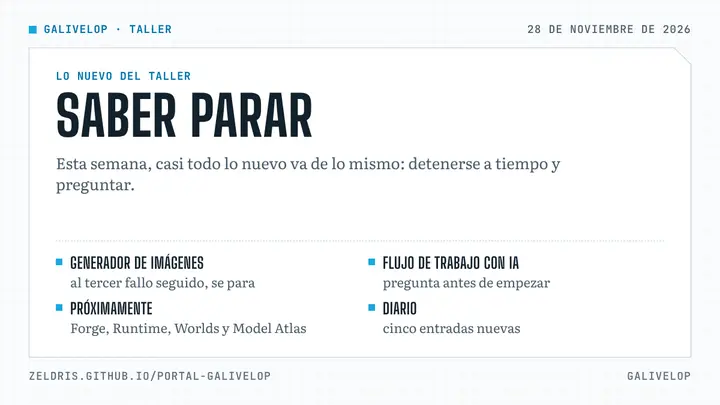
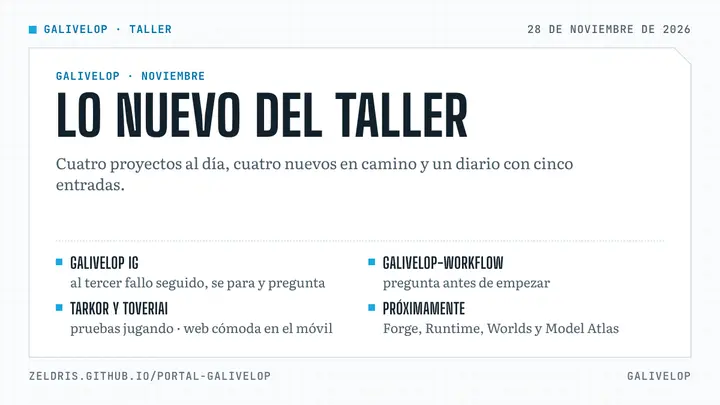
docs(media): LinkedIn «Lo nuevo del taller», proyecto a proyecto con enlaces
Reescribe la pieza con el formato de LinkedIn y la voz del diario: tutea,
explica en llano qué es cada proyecto y qué cambia, con su ficha y su código
(toVeriAI solo su web), los cuatro de próximamente, el diario y una pregunta
final. La tarjeta pasa a «Lo nuevo del taller». check.py: OK.

Siguiente: la persona publica en LinkedIn y se rellena «Published» en sheet.md.

Claude-Session: https://claude.ai/code/session_01VdeHmBJafvNfuX8KrP6JHM

diff --git a/docs/media/2026-11-28/01-saber-parar/media/source/card.html b/docs/media/2026-11-28/01-saber-parar/media/source/card.html
@@ -3,7 +3,7 @@
 <head>
 <meta charset="utf-8">
 <meta name="gw-size" content="1200x675">
-<title>Saber parar</title>
+<title>Lo nuevo del taller</title>
 <style>
   @font-face { font-family: 'Big Shoulders Display Variable'; font-weight: 100 900; src: url('../../../../../../node_modules/@fontsource-variable/big-shoulders-display/files/big-shoulders-display-latin-wght-normal.woff2') format('woff2'); }
   @font-face { font-family: 'Literata Variable'; font-weight: 200 900; src: url('../../../../../../node_modules/@fontsource-variable/literata/files/literata-latin-wght-normal.woff2') format('woff2'); }
@@ -57,10 +57,10 @@
 <body>
   <div class="barra datos"><span class="marca">Galivelop · Taller</span><span>28 de noviembre de 2026</span></div>
   <div class="marco"><div class="ficha resumen">
-    <div class="sub datos">Lo nuevo del taller</div>
-    <h1>Saber parar</h1>
-    <p>Esta semana, casi todo lo nuevo va de lo mismo: detenerse a tiempo y preguntar.</p>
-    <div class="lista"><div><b>Generador de imágenes</b><br>al tercer fallo seguido, se para</div><div><b>Flujo de trabajo con IA</b><br>pregunta antes de empezar</div><div><b>Próximamente</b><br>Forge, Runtime, Worlds y Model Atlas</div><div><b>Diario</b><br>cinco entradas nuevas</div></div>
+    <div class="sub datos">Galivelop · noviembre</div>
+    <h1>Lo nuevo del taller</h1>
+    <p>Cuatro proyectos al día, cuatro nuevos en camino y un diario con cinco entradas.</p>
+    <div class="lista"><div><b>Galivelop IG</b><br>al tercer fallo seguido, se para y pregunta</div><div><b>Galivelop-workflow</b><br>pregunta antes de empezar</div><div><b>Tarkor y toVeriAI</b><br>pruebas jugando · web cómoda en el móvil</div><div><b>Próximamente</b><br>Forge, Runtime, Worlds y Model Atlas</div></div>
   </div></div>
   <div class="pie datos"><span>zeldris.github.io/Portal-Galivelop</span><span>Galivelop</span></div>
 </body>

diff --git a/docs/media/2026-11-28/01-saber-parar/sheet.md b/docs/media/2026-11-28/01-saber-parar/sheet.md
@@ -11,7 +11,7 @@ Languages: es
 
 ## What is told
 
-- **In one sentence (for who uses it):** Lo nuevo del taller esta semana va de saber parar: el generador de imágenes se detiene al tercer fallo seguido, el flujo de trabajo pregunta antes de empezar, Tarkor se prueba jugando; además, cuatro proyectos en «próximamente» y un diario renovado.
+- **In one sentence (for who uses it):** Repaso de lo nuevo del taller, proyecto a proyecto, con la ficha y el código de cada uno: Galivelop IG, Galivelop-workflow, Tarkor y toVeriAI al día, cuatro proyectos en «próximamente» y cinco entradas en el diario.
 - **In one sentence (technical):** Resumen en tono de diario de las novedades publicadas en `main` entre el 2026-11-16 y el 2026-11-27 (image-generator 0.7/0.8, workflow 0.8.2-0.9.1, Tarkor, toVeriAI, próximamente y diario).
 - **Status:** todo publicado en `main` (último, el diario nuevo, 8bf49fe del 2026-11-27).
 
@@ -26,18 +26,25 @@ Languages: es
 | En «próximamente» entran Forge, Runtime, Worlds y Model Atlas | `docs/handoff.md` («Hecho», 2026-11-27: `galivelop-forge`, `-runtime`, `-worlds` y `galivelop-models` en próximamente); `src/data/proximamente.json` |
 | Forge: datos y ajuste fino para los modelos locales; Runtime: cola y turnos compartidos por los generadores locales; Worlds: kit para mundos de ficción con IA local; Model Atlas: qué modelo cabe en qué máquina | `src/data/proximamente.json` (`lema` de cada uno) |
 | El diario del taller se renueva con cinco entradas, entre ellas por qué una Steam Deck es la máquina de referencia y un relato del Génesis de Tarkor | `src/data/diario/` (cinco archivos); `una-consola-como-vara-de-medir.json`, `la-ultima-semilla.json`; commit 8bf49fe |
+| Galivelop IG genera imágenes en el propio equipo sin mandar nada fuera, y agrupa pedidos en tandas | `src/data/proyectos/galivelop-image-generator.json` (`resumen`: «Nada sale del equipo»; novedades 0.7.0/0.8.0, 2026-11-27) |
+| Galivelop-workflow es nuestra forma de trabajar con IA empaquetada para cualquier proyecto; pregunta antes de empezar (0.8.0); la 0.9 trae idiomas configurables y revisión repartida entre varios revisores; se instala para opencode y Codex | `src/data/proyectos/galivelop-workflow.json` (`lema` y novedades 0.8.0, 0.9.0) |
+| Tarkor es un juego de rol por texto con IA local como directora de juego; en la ronda de pruebas los personajes responden sin desvelar secretos y el combate entiende mejor las esquivas | `src/data/proyectos/tarkor.json` (`resumen`; novedades 2026-11-20 y 2026-11-26) |
+| toVeriAI dice cuánto puedes fiarte de una noticia y por qué | `src/data/proyectos/toveriai.json` (`lema`, `resumen`) |
+| Una entrada del diario explica por qué medimos con una consola (Steam Deck) | `src/data/diario/una-consola-como-vara-de-medir.json` |
+| Enlaces de fichas: `/proyectos/<slug>` del sitio https://zeldris.github.io/Portal-Galivelop/ | `src/App.tsx`:68 |
+| Código público: github.com/Zeldris/galivelop-image-generator, /Galivelop-workflow, /World-Maker-Fantasy, /Instalador-WMF-Tarkor; toVeriAI solo su web, www.toveriai.com (repo privado) | `enlaces` de cada ficha en `src/data/proyectos/` |
 | El diario está en https://zeldris.github.io/Portal-Galivelop/diario | `src/App.tsx`:75; `scripts/paginas-estaticas.mjs`:169 |
 
 ## Images
 
 | Image | Alt text | Channels |
 |---|---|---|
-| `media/card.png` | es: Tarjeta «Saber parar» de Galivelop: el generador de imágenes se para al tercer fallo seguido, el flujo con IA pregunta antes de empezar, cuatro proyectos en próximamente y cinco entradas nuevas en el diario | linkedin |
-| `media/card.webp` | es: Tarjeta «Saber parar» de Galivelop: el generador de imágenes se para al tercer fallo seguido, el flujo con IA pregunta antes de empezar, cuatro proyectos en próximamente y cinco entradas nuevas en el diario | ninguno (la genera el render; sirve para X o Discord) |
+| `media/card.png` | es: Tarjeta «Lo nuevo del taller» de Galivelop: Galivelop IG se para al tercer fallo seguido, Galivelop-workflow pregunta antes de empezar, Tarkor en pruebas jugando, toVeriAI cómoda en el móvil y cuatro proyectos en próximamente | linkedin |
+| `media/card.webp` | es: Tarjeta «Lo nuevo del taller» de Galivelop: Galivelop IG se para al tercer fallo seguido, Galivelop-workflow pregunta antes de empezar, Tarkor en pruebas jugando, toVeriAI cómoda en el móvil y cuatro proyectos en próximamente | ninguno (la genera el render; sirve para X o Discord) |
 
 ## Internal use
 
-- Pedido de la persona (2026-11-28): publicación de LinkedIn de los proyectos nuevos y actualizados, «con el tono del diario, no lo que está escrito pero sí el tono» (`docs/desarrollo.md#diario-del-taller`): primera persona, una idea, el porqué, sin cifras ni versiones, sin vender.
+- Pedido de la persona (2026-11-28): publicación de LinkedIn de los proyectos nuevos y actualizados, «con el tono del diario, no lo que está escrito pero sí el tono»: la voz (tutear, en llano, honesta, sin vender), no su formato. Corrección: formato de LinkedIn con enlaces al portal y a los repos y una pregunta final.
 - Sin nota del proyecto (`.claude/gw/gw-media-content.md`): solo en castellano (la persona, 2026-11-28).
 - Próximamente, sin contar cómo van (regla de «Mensaje»): solo el lema de cada uno.
 - Fuentes HTML en `media/source/`, con los tokens del tema claro de `docs/marca.md`. Rama `ccr-b5664d58-ozb4cv`.

diff --git a/docs/media/2026-11-28/01-saber-parar/linkedin.md b/docs/media/2026-11-28/01-saber-parar/linkedin.md
@@ -6,18 +6,37 @@ Challenge, how, and what was learned. 3 to 5 tags at the end. LinkedIn does not 
 
 ## es
 
-Repasando lo nuevo del taller de esta semana, casi todo va de lo mismo: saber parar.
+¿Te has peleado alguna vez con una herramienta que falla, lo vuelve a intentar y vuelve a fallar sin decirte nada? Esta semana le hemos puesto remedio a eso en el taller, y de paso hemos puesto al día casi todo.
 
-El generador de imágenes ya no insiste sin fin. Al tercer fallo seguido se detiene y pide que alguien cuente qué ha pasado antes de seguir. Nuestro flujo de trabajo con IA hace algo parecido: si la tarea pide un modelo y la sesión usa otro, se para y pregunta antes de empezar. Y Tarkor sigue en una ronda de pruebas jugando, que también es una forma de parar: mirar lo hecho antes de añadir más.
+Te cuento qué hay de nuevo en Galivelop, proyecto a proyecto.
 
-Una herramienta que insiste sin que nadie mire no ahorra trabajo, lo esconde. Preferimos que se pare y pregunte.
+🖼 Galivelop IG, nuestro generador de imágenes. Le pides una imagen y la hace en tu propio equipo, sin mandar nada fuera. Ahora, si falla tres veces seguidas, se para y te pide que cuentes qué ha pasado antes de seguir. También agrupa los pedidos en tandas.
+👉 Ficha: https://zeldris.github.io/Portal-Galivelop/proyectos/galivelop-image-generator
+Código: https://github.com/Zeldris/galivelop-image-generator
 
-Hay más. La web de toVeriAI ya se usa con comodidad desde el móvil. En «próximamente» entran cuatro proyectos, todos alrededor de la IA que corre en un equipo propio: Forge, Runtime, Worlds y Model Atlas. Y el diario del taller estrena cinco entradas, desde por qué una Steam Deck es nuestra vara de medir hasta un relato del mundo de Tarkor.
+⚙ Galivelop-workflow, nuestra forma de trabajar con agentes de IA, empaquetada para que la uses en tu proyecto. El agente te pregunta antes de empezar y se para si la tarea pide otro modelo. La versión 0.9 trae idiomas configurables y una revisión repartida entre varios revisores. Funciona también con opencode y Codex.
+👉 Ficha: https://zeldris.github.io/Portal-Galivelop/proyectos/galivelop-workflow
+Código: https://github.com/Zeldris/Galivelop-workflow
 
-¿En qué momento decidís que algo tiene que pararse solo?
+⚔ Tarkor, un juego de rol por texto con una IA local como directora de juego. Estamos probándolo jugando: los personajes ya responden sin desvelar sus secretos y el combate entiende mejor cuándo esquivas. Aún queda ronda de pruebas; lo que salga, lo verás en su ficha.
+👉 Ficha: https://zeldris.github.io/Portal-Galivelop/proyectos/tarkor
+Código: https://github.com/Zeldris/World-Maker-Fantasy
+Instalador: https://github.com/Zeldris/Instalador-WMF-Tarkor
 
-zeldris.github.io/Portal-Galivelop/diario
+🔎 toVeriAI te dice cuánto puedes fiarte de una noticia, y por qué. Su web ya se usa cómodamente desde el móvil.
+👉 Ficha: https://zeldris.github.io/Portal-Galivelop/proyectos/toveriai
+Web: https://www.toveriai.com
 
-#InteligenciaArtificial #IALocal #DesarrolloDeSoftware #CódigoAbierto
+🌱 Y llegan cuatro proyectos nuevos a «próximamente»:
+· Forge: datos y ajuste fino para los modelos locales del taller.
+· Runtime: la cola y los turnos que compartirán nuestros generadores locales.
+· Worlds: un kit para crear mundos de ficción vivos con IA local.
+· Model Atlas: qué modelo cabe en qué máquina.
+
+📓 Si te interesa el porqué de todo esto, el diario del taller tiene cinco entradas nuevas, desde por qué medimos con una consola hasta un relato del mundo de Tarkor.
+https://zeldris.github.io/Portal-Galivelop/diario
+
+Ahora te pregunto yo: ¿qué preferirías que hiciera una herramienta tuya cuando falla, insistir o pararse a preguntarte?
+
+#InteligenciaArtificial #IALocal #CódigoAbierto #DesarrolloDeSoftware
 Image: media/card.png
-

diff --git a/docs/handoff.md b/docs/handoff.md
@@ -25,7 +25,7 @@ Aquí se apunta lo que está en la rama de trabajo y aún no en `main`.
 
 ## Hecho
 
-- 2026-11-28 · **LinkedIn «Saber parar»**: `docs/media/2026-11-28/01-saber-parar/`, castellano, tono del diario, lista para publicar.
+- 2026-11-28 · **LinkedIn «Lo nuevo del taller»**: `docs/media/2026-11-28/01-saber-parar/`, castellano, voz del diario, enlaces y pregunta final; lista para publicar.
 - 2026-11-27 · **(en `main`) `/gw-portal` en modo aplicar, segunda pasada** (`ccr-b5664d58-ozb4cv`, contenido y `fuentes.json`): image-generator 0.8.0 (novedad, fase, enlace, guion), toVeriAI (novedad de trabajo de fondo), workflow 0.9.1 en el texto, runtime 4 / 7 y worlds con su siguiente paso, trozo «proyectos» del inicio con los cinco próximos; `galivelop-watch` ignorado. Detalle en «Para la próxima publicación». Check: 439 tests.
 - 2026-11-27 · **(en `main`) Diario en llano** (`ccr-b5664d58-ozb4cv`, código; Q-48 respondida): normas nuevas, la entrada del relevo reescrita y seis entradas nuevas a nombre de Álvaro; detalle en «Para la próxima publicación». Check: 439 tests; build: 75 páginas estáticas.
 - 2026-11-27 · **R-8 y test de la portada cuadrada** (`ccr-b5664d58-ozb4cv`, código; revisado en la sesión, sin hallazgos): `recorrido.cjs` ya no fija `/Portal-Galivelop/` al leer el sitemap (usa `rutasDelSitemap` con `BASE`); `src/estatico.test.ts` comprueba en todas las fichas con `"cuadrada": true` que exista `<nombre>-cuadrada.webp` de 540 px (rojo sin la imagen de image-generator) y sube `anchoWebp` a nivel de módulo. `npm run check` en verde (397 tests).
